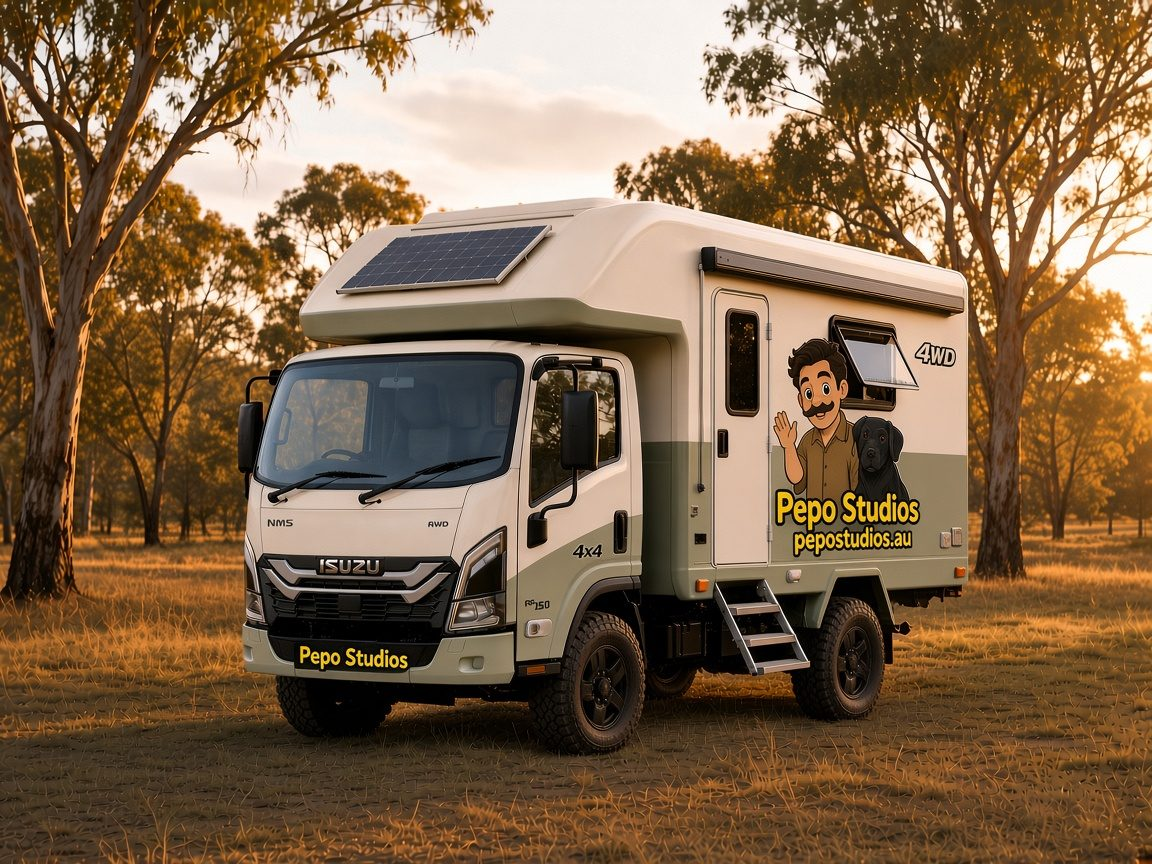
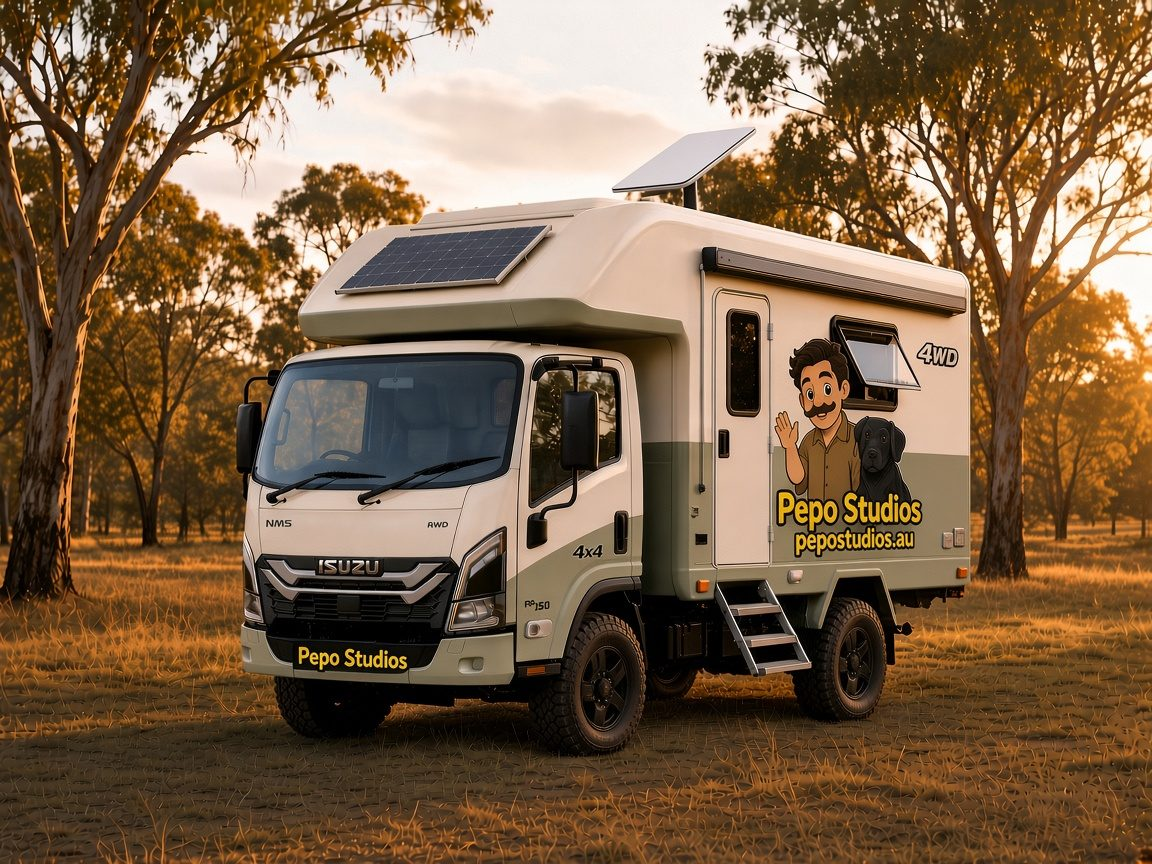
Update the Pepo Camper illustration with Starlink (#30)
Use the 4WD Pepo Camper illustration with a Starlink dish on the roof on the trip page, the homepage, and share tags.

diff --git a/summer-trip/index.html b/summer-trip/index.html
@@ -9,7 +9,7 @@
   <meta property="og:title" content="Pepo Camper. This is our future transport. Coming soon!">
   <meta property="og:description" content="The Pepo Camper is built on an Isuzu NMS 45-150 AWD, a small four wheel drive truck that Mr. Pepo, Sakura and little Howie will turn into a cosy camper for the road trip.">
   <meta property="og:image" content="https://pepostudios.au/images/summer-trip/pepo-camper.jpg">
-  <meta property="og:image:alt" content="The Pepo Camper: a four wheel drive Isuzu NMS in cream and sage Pepo Studios colours, with Mr. Pepo and Sakura on the side, yellow Pepo Studios lettering, all-terrain tyres and a raised 4WD stance">
+  <meta property="og:image:alt" content="The Pepo Camper: a four wheel drive Isuzu NMS in cream and sage Pepo Studios colours, with Mr. Pepo and Sakura on the side, yellow Pepo Studios lettering, all-terrain tyres, a raised 4WD stance and a Starlink dish on the roof">
   <meta property="og:image:type" content="image/jpeg">
   <meta property="og:image:width" content="1152">
   <meta property="og:image:height" content="864">
@@ -518,7 +518,7 @@
     <section class="future-transport" id="future-transport" aria-labelledby="pepo-camper">
       <h2 id="pepo-camper"><span class="truck-name">Pepo Camper</span> This is our future transport. Coming soon!</h2>
       <figure>
-        <img src="../images/summer-trip/pepo-camper.jpg" width="1152" height="864" alt="The Pepo Camper: a four wheel drive Isuzu NMS in cream and sage Pepo Studios colours, with Mr. Pepo and Sakura on the side, yellow Pepo Studios lettering, all-terrain tyres and a raised 4WD stance">
+        <img src="../images/summer-trip/pepo-camper.jpg" width="1152" height="864" alt="The Pepo Camper: a four wheel drive Isuzu NMS in cream and sage Pepo Studios colours, with Mr. Pepo and Sakura on the side, yellow Pepo Studios lettering, all-terrain tyres, a raised 4WD stance and a Starlink dish on the roof">
         <figcaption>The Pepo Camper: a four wheel drive Isuzu NMS in Pepo Studios colours, with Mr. Pepo and Sakura on the side (illustration).</figcaption>
       </figure>
       <p>The Pepo Camper is built on an Isuzu NMS 45-150 AWD, a small four wheel drive truck that Mr. Pepo, Sakura and little Howie will turn into a cosy camper for the road trip. And it can be driven on a normal car licence!</p>

diff --git a/index.html b/index.html
@@ -4475,7 +4475,7 @@
     <section class="future-transport-home" id="future-transport" aria-labelledby="pepo-camper">
       <div class="future-transport-home-card">
         <figure>
-          <img src="images/summer-trip/pepo-camper.jpg" width="1152" height="864" alt="The Pepo Camper: a four wheel drive Isuzu NMS in cream and sage Pepo Studios colours, with Mr. Pepo and Sakura on the side, yellow Pepo Studios lettering, all-terrain tyres and a raised 4WD stance" loading="lazy" decoding="async">
+          <img src="images/summer-trip/pepo-camper.jpg" width="1152" height="864" alt="The Pepo Camper: a four wheel drive Isuzu NMS in cream and sage Pepo Studios colours, with Mr. Pepo and Sakura on the side, yellow Pepo Studios lettering, all-terrain tyres, a raised 4WD stance and a Starlink dish on the roof" loading="lazy" decoding="async">
           <figcaption>The Pepo Camper: a four wheel drive Isuzu NMS in Pepo Studios colours, with Mr. Pepo and Sakura on the side (illustration).</figcaption>
         </figure>
         <div>
